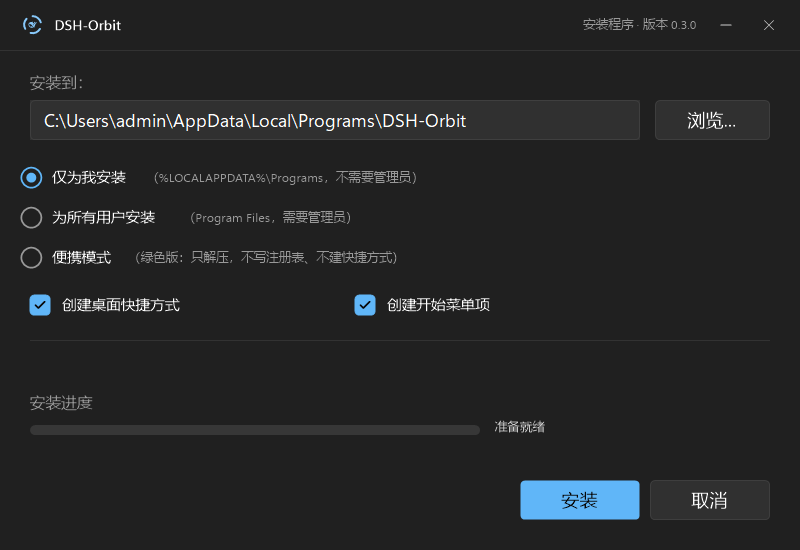
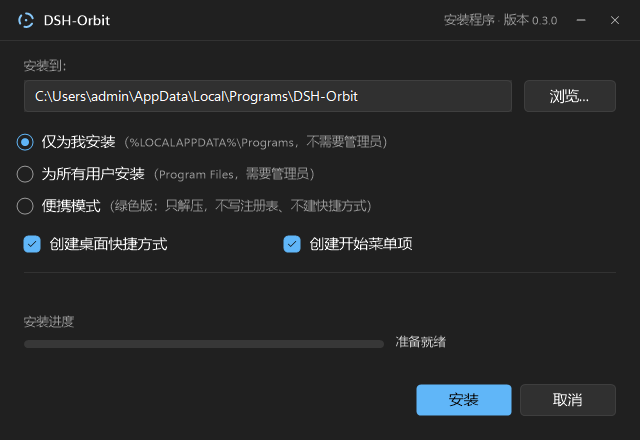
feat(release): CHANGELOG.md 作为发版门禁与 release 正文；版本回到 0.2.0

diff --git a/installer/Model.cs b/installer/Model.cs
@@ -25,7 +25,7 @@ internal static class AppInfo
     public const string Description = "给 dsh web 用的桌面挂件与浏览器外壳";
 
     /// <summary>payload 的 FileVersion 取不到时用它（对应 DshOrbit.csproj 的 Version）。</summary>
-    public const string FallbackVersion = "0.3.0";
+    public const string FallbackVersion = "0.2.0";
 
     public const string PayloadResourceName = "payload.app";
 

diff --git a/installer/SetupForm.cs b/installer/SetupForm.cs
@@ -1061,7 +1061,7 @@ internal sealed class SetupForm : Form
             case "done":
                 _screen = Screen.Done;
                 _installedDir = InstallOptions.DefaultDirectory(InstallMode.User);
-                _installedVersion = "0.3.0";
+                _installedVersion = "0.2.0";
                 _progress = 100;
                 SetStatus("安装完成");
                 LayoutButtons();

diff --git a/CHANGELOG.md b/CHANGELOG.md
@@ -1,0 +1,66 @@
+# 更新日志
+
+本文件是**发版的唯一来源**：`.github/workflows/release.yml` 会按 tag 从这里取正文，
+取不到就直接失败——**没有 changelog 条目，发不了版**。
+
+格式（严格）：
+
+```
+## [x.y.z] - YYYY-MM-DD
+```
+
+正文按 [Keep a Changelog](https://keepachangelog.com/zh-CN/1.1.0/) 分组：`新增` / `变更` / `修复` / `移除`。
+发版前把 `DshOrbit.csproj` 的 `<Version>` 改成同一条目的版本号，CI 会校验两者一致。
+
+## [0.2.0] - 2026-11-15
+
+一次大版本：**全部界面按 WinUI 3（Fluent）重塑，融合 Material 3**，并补上安装器、卸载器与单元测试。
+
+### 新增
+
+- **WinUI 3 × Material 3 设计系统**：新增 `Fluent.cs` 令牌层（颜色 / 版式阶梯 / 圆角 / 间距 / 海拔 / 状态层 / 缓动）与绘制原语，规范见 `docs/design-fluent.md`
+- **浅色 / 深色双主题**：跟随系统，「外观」里可强制；强调色取系统强调色，Windows 设置里改颜色整个程序跟着变
+- **安装器** `DSH-Orbit-Setup.exe`：自研的 7-Zip 风格单窗口，可选安装位置、三档范围（当前用户 / 所有用户 / 便携）、桌面与开始菜单快捷方式；写入「应用和功能」与 `RegisteredApplications`；支持 `/S`、`/D=`、`/MODE=` 静默部署
+- **卸载**：`DSH-Orbit.exe --uninstall`，删除快捷方式、注册表与程序文件，默认保留配置与历史
+- **便携模式**：exe 旁有 `portable.txt` 或 `data\` 时，配置与日志写进 `data\`，不碰 `%LOCALAPPDATA%`
+- **地址栏收起**：标题栏右上角 `⌃ / ⌄` 一键收起工具条，网页区多出 36px，状态记在 `shell.json`
+- **单元测试** `tests/Unit`：41 个方法 / 91 个用例（SVG 路径解析、颜色缓动、闲时时段、登录中转链接、菜单状态），已接入 CI
+- **离屏渲染器**：一键产出「每个界面 × 浅色/深色」截图，用于设计自查
+- 版本号写进程序集，`DisplayVersion` 从 payload 的 FileVersion 读取
+- 托盘菜单支持 `↑↓` / `Enter` / `Esc` 键盘操作
+
+### 变更
+
+- 桌面卡片：30px 圆角 + 辉光 + 84px 圆形按钮 → 8px 圆角 WinUI 卡片 + 按钮组，端口号作为 `Title 28` 主视觉
+- 托盘菜单：大图标磁贴 → `MenuFlyout` 结构（分组标题 + 分段控件 + 36px 行高）
+- 浏览器外壳：双行头 → `TabView` 式标题栏（激活标签 2px 强调条）；刷新 / 在浏览器打开移入地址框内部
+- 新标签页：深色渐变 → Mica 渐变 + Fluent 搜索框 + 2×2 主卡片 + 16px 圆角磁贴；历史记录上限 7 → 12
+- 添加引擎对话框改为 `ContentDialog` 形态
+- 字体统一为 `Segoe UI Variable` 版式阶梯，全程序最小字号 12px
+- 地址栏折叠状态与主题选择都会持久化
+
+### 修复
+
+- 远程桌面把 DPI 切到 125% 后，外壳不会重新排版（现在 `OnDpiChanged` 会重跑布局）
+- 托盘菜单「停止」态第一格不可点、「外壳关闭时」的状态值被裁切
+- 浅色主题下外壳内容区仍是深色（WebView2 `PreferredColorScheme` 跟随主题）
+- 卸载时误删用户数据的风险：默认改为保留，并加路径护栏
+
+### 移除
+
+- 卡片上的辉光、渐变、巨型圆形按钮
+- 对 `HarmonyOS Sans SC` 的依赖（改用系统字体，中文由系统字体链回落）
+
+## [0.1.1] - 2026-11-13
+
+### 修复
+
+- 托盘菜单在「已停止」状态下第一格没有可点的启动动作，现在会变成「启动」/「启动中」
+
+## [0.1.0] - 2026-11-13
+
+首个可用版本：桌面挂件（端口 / 插件 / 余额 / 今日已用）、托盘菜单、WebView2 外壳与多标签、本地登录中转。
+
+[0.2.0]: https://github.com/x-leehe/dsh-orbit/releases/tag/v0.2.0
+[0.1.1]: https://github.com/x-leehe/dsh-orbit/releases/tag/v0.1.1
+[0.1.0]: https://github.com/x-leehe/dsh-orbit/releases/tag/v0.1.0

diff --git a/AGENTS.md b/AGENTS.md
@@ -109,6 +109,19 @@ dotnet run --project tests/Render -c Release -- artifacts/gallery --only menu
 
 日常开发只做到：改代码 → 本地构建 → `dotnet test tests/Unit` → 提交 → push main。
 
+### CHANGELOG 是发版门禁
+
+`CHANGELOG.md` 是 release 正文的**唯一来源**，没有条目就发不出去：
+
+1. 在 `CHANGELOG.md` 顶部加一节，标题严格为 `## [x.y.z] - YYYY-MM-DD`，正文按 `新增 / 变更 / 修复 / 移除` 分组；
+2. 把 `DshOrbit.csproj` 的 `<Version>` 改成同一个版本号；
+3. 本地自检：`pwsh tools/changelog.ps1 -Validate`（校验格式 + csproj 版本必须有条目）；
+4. `.github/workflows/release.yml` 的第一道关卡就是 `tools/changelog.ps1 -Version <tag>`，
+   取不到正文直接失败，**构建和上传都不会执行**；
+5. release 正文 = changelog 该版本正文 + `.github/release-footer.md`（下载说明），不要手写。
+
+安装器里的版本号来自 payload 的 FileVersion，而 FileVersion 来自 `<Version>`，所以改完记得重新 `build.ps1`。
+
 ## 不要做的事
 
 - 不要引入 GPL/AGPL 代码（本项目是 MIT）。FlClash 只作交互参考，不复制它的代码。

diff --git a/.github/release-footer.md b/.github/release-footer.md
@@ -1,0 +1,14 @@
+## 下载
+
+| 文件 | 大小 | 说明 |
+| --- | --- | --- |
+| `DSH-Orbit-Setup.exe` | ~94 MB | **推荐**。安装器：可选安装位置 / 便携模式 / 快捷方式，写入「应用和功能」；**不需要预装 .NET** |
+| `DSH-Orbit.exe` | ~47 MB | 绿色单文件，自带 .NET 运行时，拷走就能跑 |
+| `DSH-Orbit-lite.exe` | ~1.5 MB | 最小体积，需要 [.NET 10 桌面运行时](https://dotnet.microsoft.com/download/dotnet/10.0) |
+
+三者都还需要系统装有 **WebView2 运行时**（Win10/11 一般自带）。
+
+安装器静默部署：`DSH-Orbit-Setup.exe /S /MODE=user /D=D:\Apps\DSH-Orbit`
+卸载：`DSH-Orbit.exe --uninstall` 或「设置 → 应用和功能」。
+
+> 本项目为 AIGC（AI 生成内容），使用前请自行评估风险。
